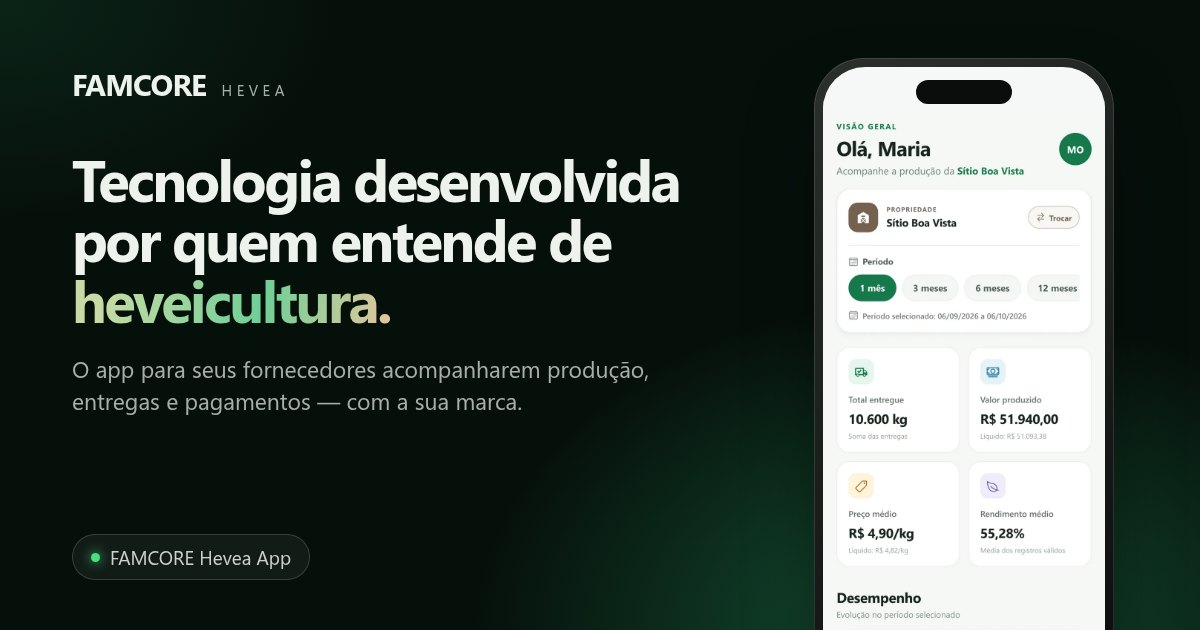
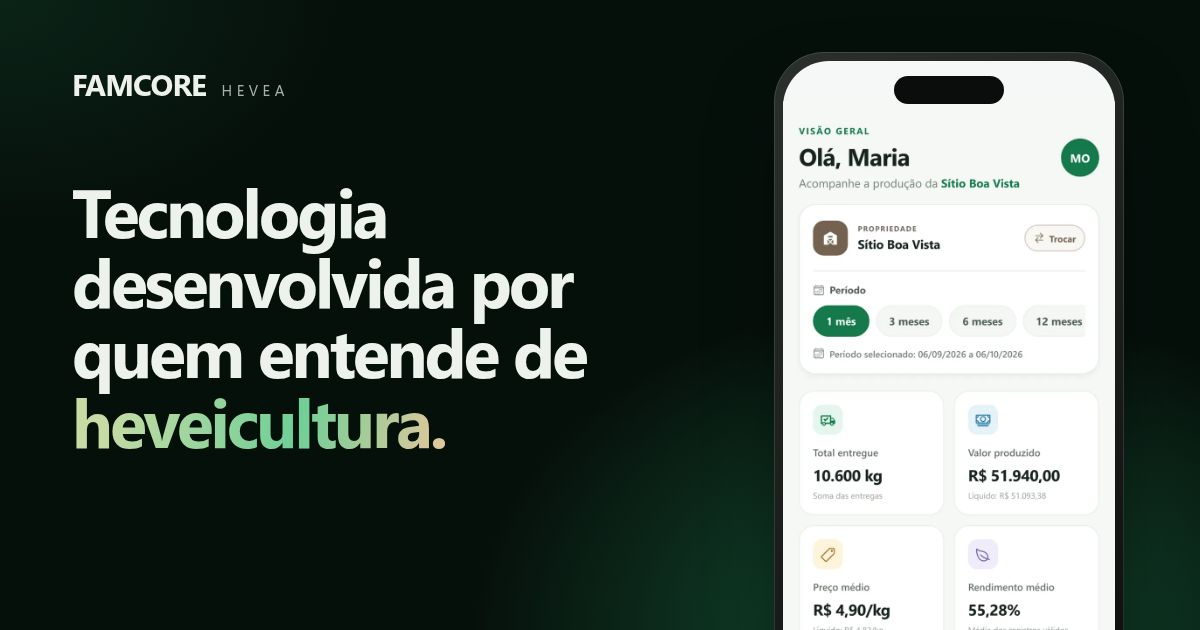
feat: reformular prévia de compartilhamento e versionar gerador da imagem
- Imagem com marca, slogan e tela do app ampliada, sem textos que
  repetem o título e a descrição da prévia.
- og:title apresenta o produto e og:description complementa com marca,
  segurança e convite, sem repetir a imagem.
- Modelo scripts/og-image.html e script npm run og-image, que gera
  public/og-image.jpg com Chromium headless e valida tamanho e formato.
- README documenta a geração e o cache de prévias do WhatsApp.

Changed region(s): [[0.6475, 0.0603, 0.9558, 1.0], [0.0617, 0.2413, 0.5858, 0.7238], [0.0617, 0.8444, 0.2467, 0.9048]]

diff --git a/scripts/og-image.html b/scripts/og-image.html
@@ -1,0 +1,30 @@
+<!doctype html>
+<html lang="pt-BR">
+  <head>
+    <meta charset="utf-8" />
+    <!-- Modelo da imagem de compartilhamento (1200x630). Gerar com: npm run og-image -->
+    <style>
+      * { box-sizing: border-box; margin: 0; }
+      html, body { width: 1200px; height: 630px; overflow: hidden; }
+      body { position: relative; background: #06100b; color: #eef2ec; font-family: -apple-system, "Segoe UI", Roboto, "Helvetica Neue", Arial, sans-serif; }
+      .glow { position: absolute; inset: 0; background: radial-gradient(55% 75% at 78% 100%, rgb(30 123 79 / .6), transparent 70%), radial-gradient(40% 50% at 0% 0%, rgb(30 123 79 / .18), transparent 70%); }
+      .copy { position: absolute; left: 72px; top: 0; bottom: 0; width: 640px; display: flex; flex-direction: column; justify-content: center; }
+      .mark { position: absolute; left: 72px; top: 64px; font-weight: 800; font-size: 30px; letter-spacing: -.03em; }
+      .mark span { font-weight: 500; font-size: 15px; letter-spacing: .3em; margin-left: 8px; opacity: .7; }
+      h1 { font-size: 68px; line-height: 1.03; letter-spacing: -.045em; font-weight: 700; }
+      .g { background: linear-gradient(100deg, #c8dba5 10%, #6fcf97 60%, #e6c79c); -webkit-background-clip: text; background-clip: text; color: transparent; }
+      .phone { position: absolute; right: 76px; top: 52px; width: 350px; padding: 9px; border-radius: 50px; background: linear-gradient(145deg, #2b302c, #0b0d0c); box-shadow: inset 0 0 0 1px rgb(255 255 255 / .12), 0 40px 80px -20px rgb(0 0 0 / .6); }
+      .screen { position: relative; height: 700px; overflow: hidden; border-radius: 46px; background: #f5f8f6; padding-top: 40px; }
+      .screen::before { content: ""; position: absolute; top: 15px; left: 50%; transform: translateX(-50%); width: 110px; height: 28px; border-radius: 99px; background: #0b0d0c; }
+      .screen img { display: block; width: 100%; }
+    </style>
+  </head>
+  <body>
+    <div class="glow"></div>
+    <div class="mark">FAMCORE <span>HEVEA</span></div>
+    <div class="copy">
+      <h1>Tecnologia desenvolvida por quem entende de <span class="g">heveicultura.</span></h1>
+    </div>
+    <div class="phone"><div class="screen"><img src="../public/app/01-visao-geral.webp" alt="" /></div></div>
+  </body>
+</html>

diff --git a/index.html b/index.html
@@ -13,16 +13,16 @@
     <meta property="og:locale" content="pt_BR" />
     <meta property="og:site_name" content="FAMCORE HEVEA" />
     <meta property="og:url" content="https://famcore.com.br/" />
-    <meta property="og:title" content="FAMCORE HEVEA | Tecnologia para heveicultura" />
-    <meta property="og:description" content="O app para empresas da cadeia da borracha natural: seus fornecedores acompanham produção, entregas e pagamentos, com a sua marca." />
+    <meta property="og:title" content="FAMCORE Hevea App: produção, entregas e pagamentos no celular do fornecedor" />
+    <meta property="og:description" content="Com a marca da sua empresa e segurança do início ao fim. Fale com a FAMCORE." />
     <meta property="og:image" content="https://famcore.com.br/og-image.jpg" />
     <meta property="og:image:type" content="image/jpeg" />
     <meta property="og:image:width" content="1200" />
     <meta property="og:image:height" content="630" />
     <meta property="og:image:alt" content="FAMCORE HEVEA — Tecnologia desenvolvida por quem entende de heveicultura, com a tela inicial do FAMCORE Hevea App" />
     <meta name="twitter:card" content="summary_large_image" />
-    <meta name="twitter:title" content="FAMCORE HEVEA | Tecnologia para heveicultura" />
-    <meta name="twitter:description" content="O app para empresas da cadeia da borracha natural: seus fornecedores acompanham produção, entregas e pagamentos, com a sua marca." />
+    <meta name="twitter:title" content="FAMCORE Hevea App: produção, entregas e pagamentos no celular do fornecedor" />
+    <meta name="twitter:description" content="Com a marca da sua empresa e segurança do início ao fim. Fale com a FAMCORE." />
     <meta name="twitter:image" content="https://famcore.com.br/og-image.jpg" />
     <script type="application/ld+json">
       {
